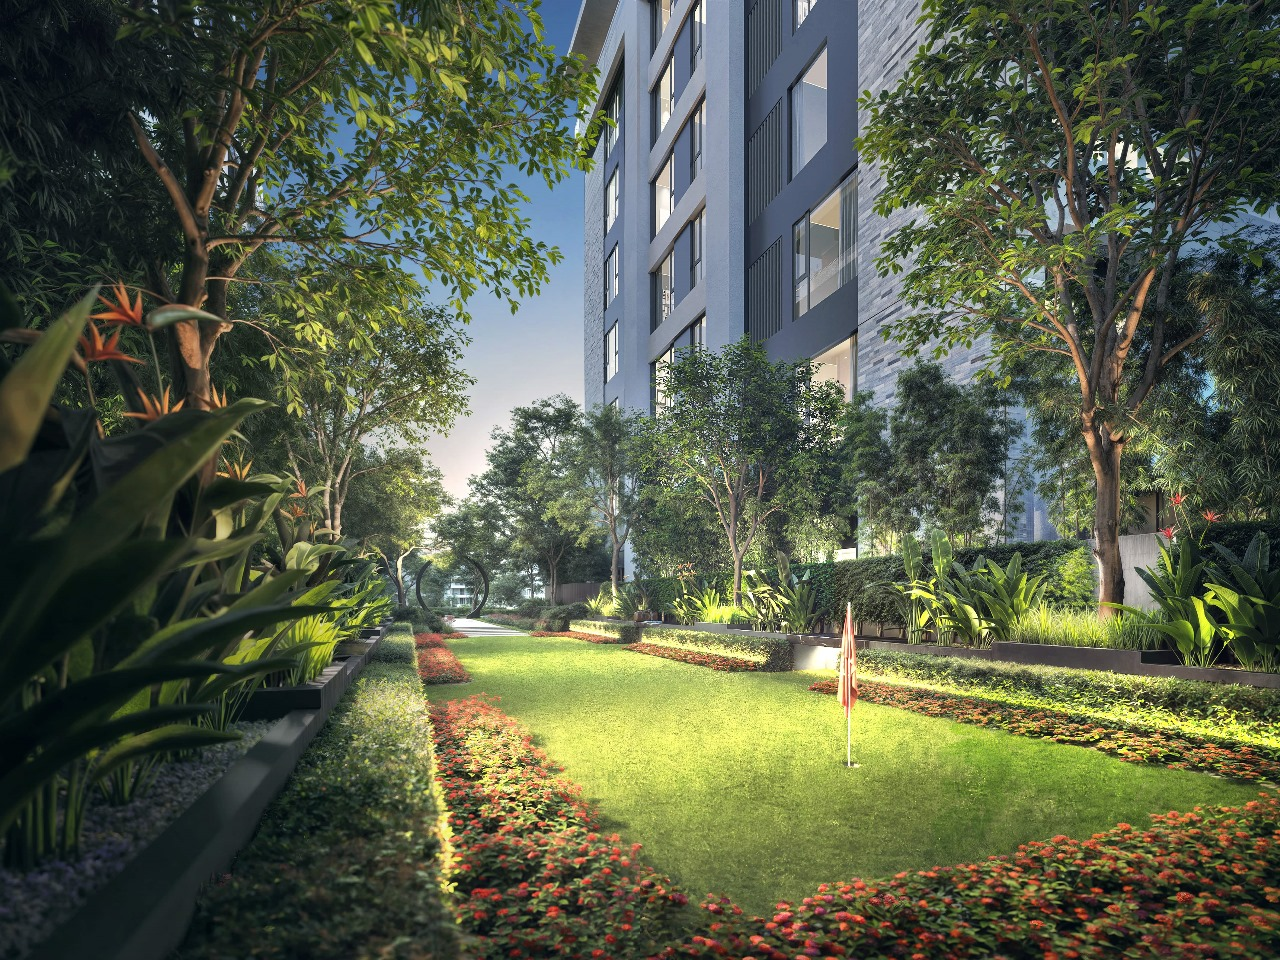
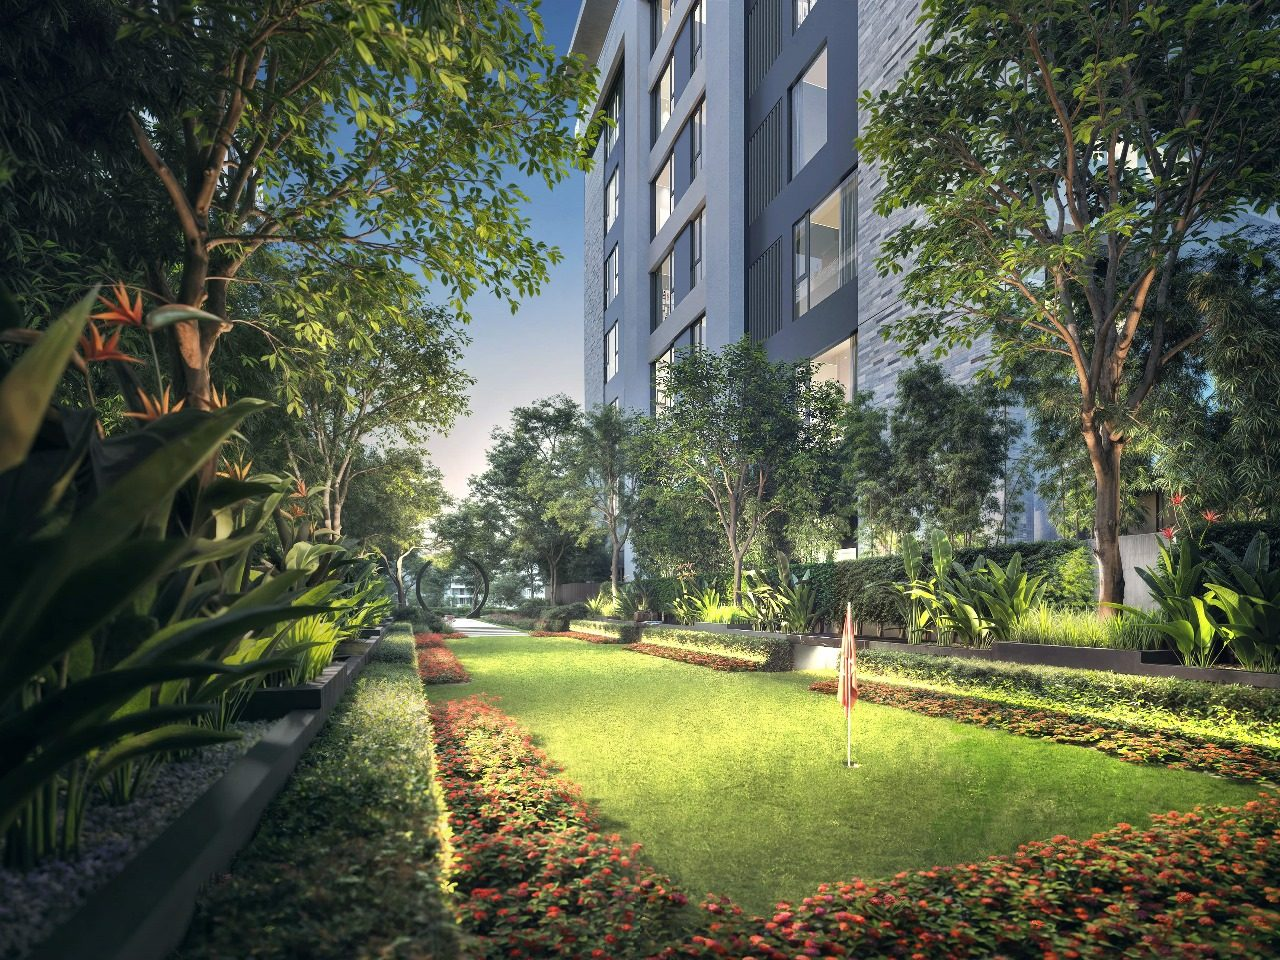
Improve page-load performance: fonts and image weight
Google Fonts was loaded via a CSS @import, which serializes the font
fetch behind CSS parsing/download instead of letting the browser
discover and fetch it in parallel with everything else. Switched to a
<link> in <head> with preconnect hints, on all five pages.

Also recompressed the heaviest property photos (several were saved at
near-lossless JPEG quality despite rendering at a few hundred px in
cards) and losslessly optimized the two PNG logos. No dimensions or
filenames changed, so nothing else in the codebase needed updating.
Total assets/img went from ~5.0MB to ~3.8MB (-24.5%), verified visually
unchanged on the largest files.

diff --git a/about.html b/about.html
@@ -17,6 +17,9 @@
 <meta name="twitter:description" content="Afraviva Homes: the best of Kenyan living. A portfolio of luxury serviced apartments across Nairobi and the Kenyan Coast, built with market-leading developers.">
 <meta name="twitter:image" content="https://judekioko.github.io/afraviva/assets/img/afraviva-logo-full.png">
 <link rel="icon" type="image/svg+xml" href="favicon.svg">
+<link rel="preconnect" href="https://fonts.googleapis.com">
+<link rel="preconnect" href="https://fonts.gstatic.com" crossorigin>
+<link href="https://fonts.googleapis.com/css2?family=Fraunces:opsz,wght@9..144,400;9..144,500;9..144,600;9..144,700&family=Inter:wght@400;500;600;700&family=IBM+Plex+Mono:wght@400;500&display=swap" rel="stylesheet">
 <link rel="stylesheet" href="assets/css/styles.css">
 </head>
 <body>

diff --git a/properties.html b/properties.html
@@ -17,6 +17,9 @@
 <meta name="twitter:description" content="Browse all eight Afraviva Homes serviced apartment developments across Nairobi and the Kenyan Coast, filterable by region and readiness stage.">
 <meta name="twitter:image" content="https://judekioko.github.io/afraviva/assets/img/afraviva-logo-full.png">
 <link rel="icon" type="image/svg+xml" href="favicon.svg">
+<link rel="preconnect" href="https://fonts.googleapis.com">
+<link rel="preconnect" href="https://fonts.gstatic.com" crossorigin>
+<link href="https://fonts.googleapis.com/css2?family=Fraunces:opsz,wght@9..144,400;9..144,500;9..144,600;9..144,700&family=Inter:wght@400;500;600;700&family=IBM+Plex+Mono:wght@400;500&display=swap" rel="stylesheet">
 <link rel="stylesheet" href="assets/css/styles.css">
 </head>
 <body>

diff --git a/index.html b/index.html
@@ -17,6 +17,9 @@
 <meta name="twitter:description" content="A portfolio of luxury serviced apartments across Nairobi and the Kenyan Coast, for short to long-term stay, shown honestly at every stage.">
 <meta name="twitter:image" content="https://judekioko.github.io/afraviva/assets/img/afraviva-logo-full.png">
 <link rel="icon" type="image/svg+xml" href="favicon.svg">
+<link rel="preconnect" href="https://fonts.googleapis.com">
+<link rel="preconnect" href="https://fonts.gstatic.com" crossorigin>
+<link href="https://fonts.googleapis.com/css2?family=Fraunces:opsz,wght@9..144,400;9..144,500;9..144,600;9..144,700&family=Inter:wght@400;500;600;700&family=IBM+Plex+Mono:wght@400;500&display=swap" rel="stylesheet">
 <link rel="stylesheet" href="assets/css/styles.css">
 </head>
 <body>

diff --git a/contact.html b/contact.html
@@ -17,6 +17,9 @@
 <meta name="twitter:description" content="Get in touch with Afraviva Homes about any property across Nairobi and the Kenyan Coast.">
 <meta name="twitter:image" content="https://judekioko.github.io/afraviva/assets/img/afraviva-logo-full.png">
 <link rel="icon" type="image/svg+xml" href="favicon.svg">
+<link rel="preconnect" href="https://fonts.googleapis.com">
+<link rel="preconnect" href="https://fonts.gstatic.com" crossorigin>
+<link href="https://fonts.googleapis.com/css2?family=Fraunces:opsz,wght@9..144,400;9..144,500;9..144,600;9..144,700&family=Inter:wght@400;500;600;700&family=IBM+Plex+Mono:wght@400;500&display=swap" rel="stylesheet">
 <link rel="stylesheet" href="assets/css/styles.css">
 </head>
 <body>

diff --git a/property.html b/property.html
@@ -17,6 +17,9 @@
 <meta id="twitter-description" name="twitter:description" content="Property details from Afraviva Homes.">
 <meta id="twitter-image" name="twitter:image" content="https://judekioko.github.io/afraviva/assets/img/afraviva-logo-full.png">
 <link rel="icon" type="image/svg+xml" href="favicon.svg">
+<link rel="preconnect" href="https://fonts.googleapis.com">
+<link rel="preconnect" href="https://fonts.gstatic.com" crossorigin>
+<link href="https://fonts.googleapis.com/css2?family=Fraunces:opsz,wght@9..144,400;9..144,500;9..144,600;9..144,700&family=Inter:wght@400;500;600;700&family=IBM+Plex+Mono:wght@400;500&display=swap" rel="stylesheet">
 <link rel="stylesheet" href="assets/css/styles.css">
 </head>
 <body>

diff --git a/assets/css/styles.css b/assets/css/styles.css
@@ -3,8 +3,6 @@
    Fraunces (display serif) + Inter (body) + IBM Plex Mono (data/labels)
    =========================================================== */
 
-@import url('https://fonts.googleapis.com/css2?family=Fraunces:opsz,wght@9..144,400;9..144,500;9..144,600;9..144,700&family=Inter:wght@400;500;600;700&family=IBM+Plex+Mono:wght@400;500&display=swap');
-
 :root{
   --forest: #2C4A3B;
   --forest-dark: #1B2F26;
